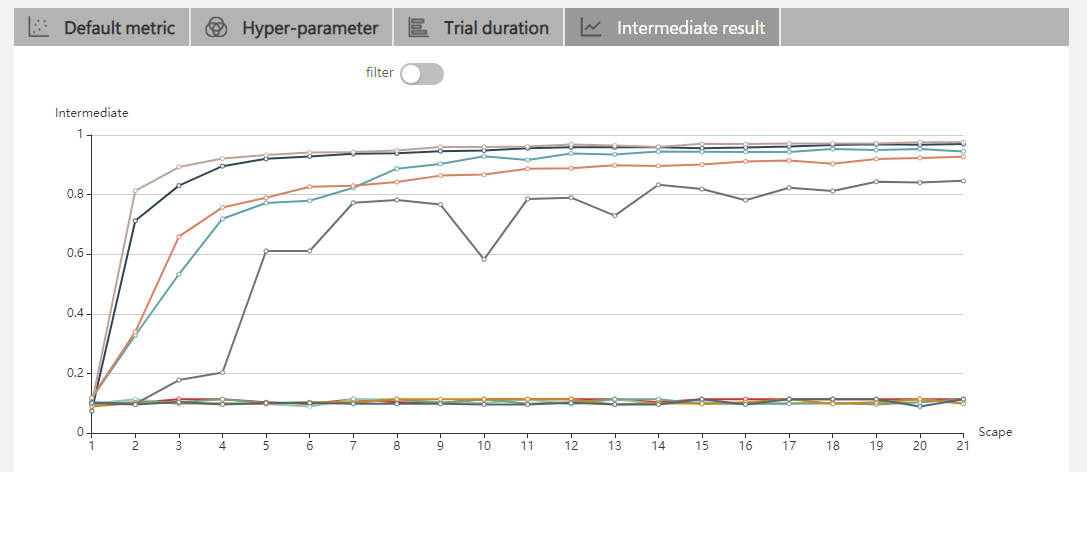
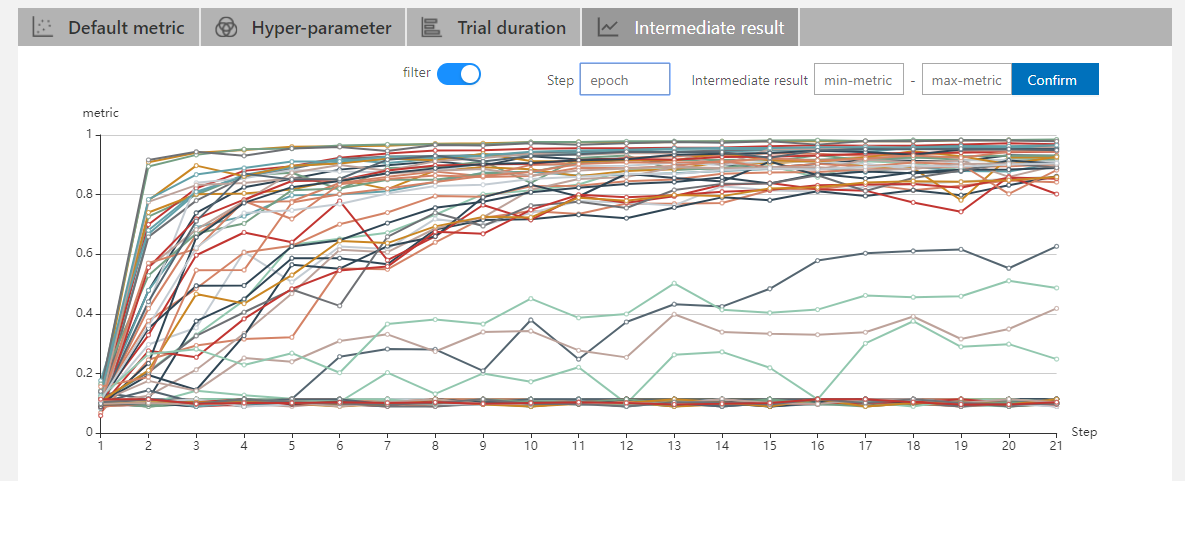
change step into epoch

diff --git a/docs/en_US/Tutorial/WebUI.md b/docs/en_US/Tutorial/WebUI.md
@@ -44,11 +44,11 @@ Click the tab "Intermediate Result" to see the lines graph.
 
 We set a filter function for the intermediate result graph because that the trials may have many intermediate results in the training progress. You need to provide three data if you want to use the filter button to see the trend of some trial.
 
-What data should be written in the first input? Maybe you find a step those trials became better or worse. In other word, it's an important and concerned step. Just input it into the first input.
+What data should be written in the first input? Maybe you find an epoch those trials became better or worse. In other word, it's an important and concerned epoch. Just input it into the first input.
 
-After selecting the step, you should input your focus metric's range on this step. Yes, it's the min and max value. Like this picture, I choose the step is 13 and the metric's range is 20-60.
+After selecting the epoch, you should input your focus metric's range on this epoch. Yes, it's the min and max value. Like this picture, I choose the epoch is 13 and the metric's range is 20-60.
 
-As a result, I filter these trials the metric's range is 20-60 on the 13 step.
+As a result, I filter these trials the metric's range is 20-60 on the 13 epoch.
 
 ![](../../img/webui-img/filter_intermediate.png)
 
